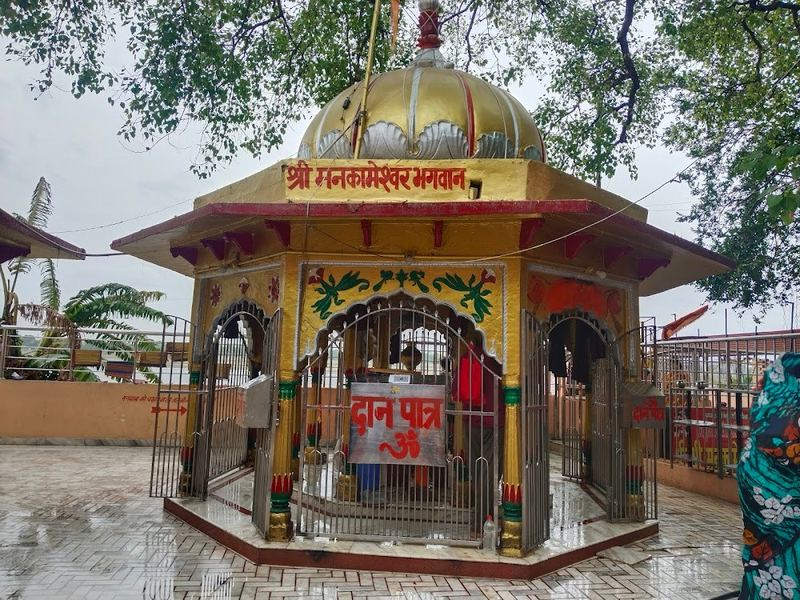
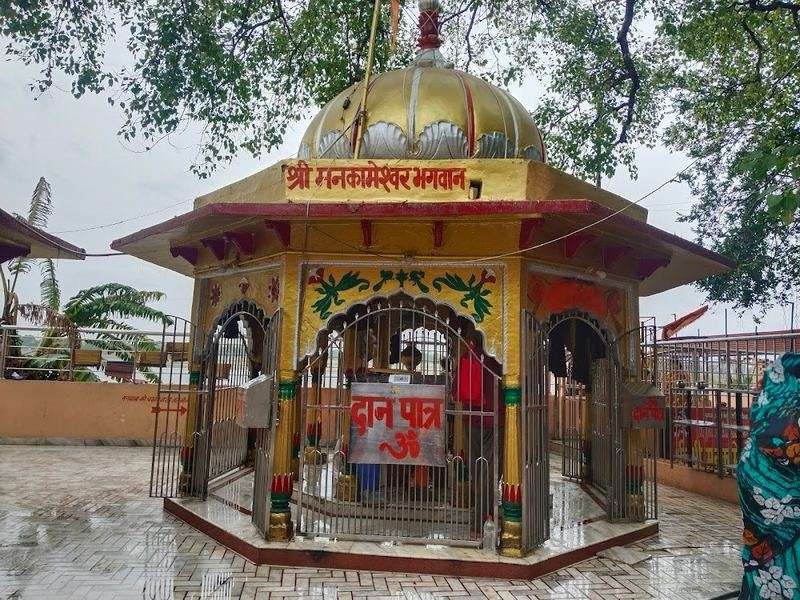
Room guide: Minto Park and your photo for All Saints Cathedral (#6)
* Room guide: use owner photo for All Saints Cathedral

Claude-Session: https://claude.ai/code/session_01G9R1cmkjzAAWyWxPUiKgxj

* Room guide: add Minto Park (Madan Mohan Malaviya Park) with owner photo

Claude-Session: https://claude.ai/code/session_01G9R1cmkjzAAWyWxPUiKgxj

* Room guide: add Shivalaya Park and Triveni Pushp; owner photo for New Yamuna Bridge

Claude-Session: https://claude.ai/code/session_01G9R1cmkjzAAWyWxPUiKgxj

* Room guide: new Food outings group with Loknath Gali (Chowk)

Claude-Session: https://claude.ai/code/session_01G9R1cmkjzAAWyWxPUiKgxj

* Room guide: add Katra and Colonelganj eats and El Chico to Food outings

Claude-Session: https://claude.ai/code/session_01G9R1cmkjzAAWyWxPUiKgxj

* Room guide: add Civil Lines Night Market; final photo optimisation

Claude-Session: https://claude.ai/code/session_01G9R1cmkjzAAWyWxPUiKgxj

---------

diff --git a/room-guide/place-details.js b/room-guide/place-details.js
@@ -141,6 +141,26 @@ window.PLACE_TEXT = {
     dur: '30 minutes',
     dd: '30 मिनट',
   },
+  shivalaya: {
+    ab: 'Shivalaya Park is a temple park in Arail, on the Naini side of the Yamuna. It has large models of the 12 Jyotirlingas of Lord Shiva, placed as they are across India, with paved walkways between them. It was built for the 2025 Maha Kumbh. It is a good way to see many famous Shiva temples in one visit.',
+    ah: 'शिवालय पार्क यमुना के नैनी की ओर अरैल में बना मंदिरों का पार्क है। यहाँ भगवान शिव के 12 ज्योतिर्लिंगों के बड़े प्रतिरूप हैं, जो देश में उनकी जगह के हिसाब से लगाए गए हैं, और बीच में पक्के रास्ते हैं। यह 2025 महाकुंभ के लिए बना। एक ही बार में कई प्रसिद्ध शिव मंदिर देखने का अच्छा तरीका है।',
+    hl: [
+      'Models of the 12 Jyotirlingas',
+      'Paved walkways through the park',
+      'Peaceful, good for families and elders',
+      'Close to Triveni Pushp and Arail Ghat',
+    ],
+    hh: [
+      '12 ज्योतिर्लिंगों के प्रतिरूप',
+      'पार्क में पक्के रास्ते',
+      'शांत, परिवार और बुज़ुर्गों के लिए अच्छा',
+      'त्रिवेणी पुष्प और अरैल घाट के पास',
+    ],
+    bt: 'Morning or late afternoon. Mondays and Sawan or Mahashivratri days are busy. Opening times and tickets can change, so please confirm with Reception.',
+    bh: 'सुबह या देर दोपहर। सोमवार और सावन या महाशिवरात्रि पर भीड़ रहती है। समय और टिकट बदल सकते हैं, इसलिए रिसेप्शन से पूछ लें।',
+    dur: '1 to 2 hours',
+    dd: '1 से 2 घंटे',
+  },
   nagvasuki: {
     ab: 'The Nagvasuki Temple stands on the high bank of the Ganga at Daraganj, an old pilgrim quarter of Prayagraj. It is dedicated to Nag Vasuki and is believed to be among the oldest sacred places of the city.',
     ah: 'नागवासुकी मंदिर प्रयागराज के पुराने तीर्थ क्षेत्र दारागंज में गंगा के ऊँचे तट पर है। यह नाग वासुकी को समर्पित है और शहर के सबसे प्राचीन पवित्र स्थलों में माना जाता है।',
@@ -322,6 +342,26 @@ window.PLACE_TEXT = {
     dur: '45 minutes',
     dd: '45 मिनट',
   },
+  minto: {
+    ab: 'Minto Park, now called Madan Mohan Malaviya Park, is a quiet park on the bank of the Yamuna, close to the Fort and Saraswati Ghat. A tall white stone pillar stands in the middle. In 1858 the proclamation that moved the rule of India from the East India Company to the Crown was read here. Today it is a calm place for a walk and some history.',
+    ah: 'मिंटो पार्क, जिसे अब मदन मोहन मालवीय पार्क कहते हैं, यमुना किनारे का शांत पार्क है, जो किले और सरस्वती घाट के पास है। बीच में ऊँचा सफ़ेद पत्थर का स्तंभ है। 1858 में यहीं वह घोषणा पढ़ी गई थी जिससे भारत का शासन ईस्ट इंडिया कंपनी से ताज के हाथ में गया। आज यह टहलने और इतिहास जानने की शांत जगह है।',
+    hl: [
+      'Tall white pillar in the middle of the park',
+      'Place of the 1858 proclamation',
+      'Green lawns beside the Yamuna',
+      'Close to the Fort and Saraswati Ghat',
+    ],
+    hh: [
+      'पार्क के बीच ऊँचा सफ़ेद स्तंभ',
+      '1858 की घोषणा का स्थान',
+      'यमुना के किनारे हरे लॉन',
+      'किले और सरस्वती घाट के पास',
+    ],
+    bt: 'Early morning or late afternoon, in the cooler months. Combine it with the Fort and Saraswati Ghat.',
+    bh: 'ठंड के मौसम में सुबह जल्दी या देर दोपहर। किले और सरस्वती घाट के साथ घूमें।',
+    dur: '30 to 45 minutes',
+    dd: '30 से 45 मिनट',
+  },
   highcourt: {
     ab: 'The Allahabad High Court is a grand building of red stone, one of the oldest high courts in India. It is best admired from outside, as the building is a working court.',
     ah: 'इलाहाबाद उच्च न्यायालय लाल पत्थर की भव्य इमारत है और भारत के सबसे पुराने उच्च न्यायालयों में से एक है। इसे बाहर से देखना ही ठीक है, क्योंकि यह चालू अदालत है।',
@@ -420,6 +460,88 @@ window.PLACE_TEXT = {
     ],
     bt: 'Afternoon and evening, when the shops are open. Weekends are busier. Opening times can change, so please confirm with Reception.',
     bh: 'दोपहर और शाम, जब दुकानें खुली होती हैं। सप्ताहांत में भीड़ ज़्यादा होती है। समय बदल सकता है, इसलिए रिसेप्शन से पूछ लें।',
+    dur: '1 to 2 hours',
+    dd: '1 से 2 घंटे',
+  },
+  loknath: {
+    ab: 'Loknath Gali is the old food lane in Chowk, the heart of old Prayagraj, and a favourite for traditional snacks and sweets. Shops here include Hari Ram & Sons for mini masala samosas and namkeen, Raja Ram Lassi Wala for traditional lassi, Sulaki & Sons for dahi jalebi and sweets, and Nirala Chaat and Mishthan Bhandar for chaat and sweets. The lane is narrow and busy, so go on foot or by e-rickshaw.',
+    ah: 'लोकनाथ गली पुराने प्रयागराज के दिल चौक की पुरानी खाने की गली है, जो पारंपरिक नाश्ते और मिठाइयों के लिए पसंद की जाती है। यहाँ मिनी मसाला समोसे और नमकीन के लिए हरि राम एंड संस, पारंपरिक लस्सी के लिए राजा राम लस्सी वाला, दही जलेबी और मिठाइयों के लिए सुलाकी एंड संस, और चाट व मिठाइयों के लिए निराला चाट एंड मिष्ठान भंडार जैसी दुकानें हैं। गली तंग और भीड़भाड़ वाली है, इसलिए पैदल या ई-रिक्शा से जाएँ।',
+    hl: [
+      'Loknath Food Market: traditional food street',
+      'Hari Ram & Sons: mini masala samosas and namkeen',
+      'Raja Ram Lassi Wala: traditional lassi',
+      'Sulaki & Sons: dahi jalebi and traditional sweets',
+      'Nirala Chaat and Mishthan Bhandar: chaat and sweets',
+    ],
+    hh: [
+      'लोकनाथ फ़ूड मार्केट: पारंपरिक खाने की गली',
+      'हरि राम एंड संस: मिनी मसाला समोसे और नमकीन',
+      'राजा राम लस्सी वाला: पारंपरिक लस्सी',
+      'सुलाकी एंड संस: दही जलेबी और पारंपरिक मिठाइयाँ',
+      'निराला चाट एंड मिष्ठान भंडार: चाट और मिठाइयाँ',
+    ],
+    bt: 'Late morning to evening, when the shops are open and fresh. Avoid festival rush hours. Shop timings change, so please confirm with Reception. Sudha Vatika does not serve food.',
+    bh: 'देर सुबह से शाम तक, जब दुकानें खुली और ताज़ा माल होता है। त्योहार की भीड़ के समय से बचें। दुकानों का समय बदल सकता है, इसलिए रिसेप्शन से पूछ लें। सुधा वाटिका में भोजन नहीं मिलता।',
+    dur: '1 to 2 hours',
+    dd: '1 से 2 घंटे',
+  },
+  nightmarket: {
+    ab: 'The Civil Lines Night Market is an evening street-food market, where many small stalls open after dark and families, students and friends sit at open tables under the trees. It is lively and informal, and a good way to try a mix of snacks and street food in one place. Stalls and timings change often, so please check with Reception.',
+    ah: 'सिविल लाइंस नाइट मार्केट शाम का स्ट्रीट-फ़ूड बाज़ार है, जहाँ अँधेरा होने के बाद कई छोटे स्टॉल खुलते हैं और परिवार, छात्र और दोस्त पेड़ों के नीचे खुली मेज़ों पर बैठते हैं। माहौल जीवंत और बेफ़िक्र है, और एक ही जगह कई तरह का नाश्ता और स्ट्रीट फ़ूड चखने का अच्छा तरीका है। स्टॉल और समय अक्सर बदलते हैं, इसलिए रिसेप्शन से पूछ लें।',
+    hl: [
+      'Many street-food stalls in one place',
+      'Open tables under the trees',
+      'Lively at night, popular with families and students',
+      'In Civil Lines, close to the main square',
+    ],
+    hh: [
+      'एक ही जगह कई स्ट्रीट-फ़ूड स्टॉल',
+      'पेड़ों के नीचे खुली मेज़ें',
+      'रात को रौनक, परिवारों और छात्रों में लोकप्रिय',
+      'सिविल लाइंस में, मुख्य चौराहे के पास',
+    ],
+    bt: 'Evening and night, after about 7 PM. Weekends are crowded. Keep your valuables safe, and choose clean stalls with fresh food.',
+    bh: 'शाम और रात, लगभग 7 बजे के बाद। सप्ताहांत में भीड़ रहती है। अपना सामान संभालकर रखें और साफ़-सुथरे स्टॉल व ताज़ा खाना चुनें।',
+    dur: '1 to 2 hours',
+    dd: '1 से 2 घंटे',
+  },
+  colonelganj: {
+    ab: 'The streets around Katra and Colonelganj are an old-city food area, best known for kachori and sabzi, and for chaat. Netram Moolchand & Sons is known for desi ghee kachori-sabzi. Pandit Ji Ki Chaat serves tamatar chaat, aloo tikki, dahi vada and papdi chaat. Chandralok Kachori serves kachori and sabzi. It makes a good breakfast or snack stop.',
+    ah: 'कटरा और कर्नलगंज के आसपास की गलियाँ पुराने शहर का खाने का इलाका है, जो कचौड़ी-सब्ज़ी और चाट के लिए सबसे मशहूर है। नेतराम मूलचंद एंड संस देसी घी की कचौड़ी-सब्ज़ी के लिए जाना जाता है। पंडित जी की चाट में टमाटर चाट, आलू टिक्की, दही वड़ा और पापड़ी चाट मिलती है। चंद्रलोक कचौड़ी में कचौड़ी और सब्ज़ी मिलती है। नाश्ते या हल्का खाने के लिए अच्छी जगह है।',
+    hl: [
+      'Netram Moolchand & Sons: desi ghee kachori-sabzi',
+      'Pandit Ji Ki Chaat: tamatar chaat, aloo tikki, dahi vada, papdi chaat',
+      'Chandralok Kachori: kachori and sabzi',
+      'Close to the Katra book and shopping market',
+    ],
+    hh: [
+      'नेतराम मूलचंद एंड संस: देसी घी की कचौड़ी-सब्ज़ी',
+      'पंडित जी की चाट: टमाटर चाट, आलू टिक्की, दही वड़ा, पापड़ी चाट',
+      'चंद्रलोक कचौड़ी: कचौड़ी और सब्ज़ी',
+      'कटरा के किताब और खरीदारी बाज़ार के पास',
+    ],
+    bt: 'Morning for kachori-sabzi, and late afternoon or evening for chaat. Shop timings change, so please confirm with Reception. Sudha Vatika does not serve food.',
+    bh: 'कचौड़ी-सब्ज़ी के लिए सुबह, और चाट के लिए देर दोपहर या शाम। दुकानों का समय बदल सकता है, इसलिए रिसेप्शन से पूछ लें। सुधा वाटिका में भोजन नहीं मिलता।',
+    dur: '1 hour',
+    dd: '1 घंटा',
+  },
+  elchico: {
+    ab: 'El Chico is a sit-down restaurant on Mahatma Gandhi Marg in Civil Lines, with a colourful, stylish dining hall and comfortable seating for families and groups. It is a good choice for a relaxed dinner out. Please confirm the opening time and book a table through Reception. Sudha Vatika does not serve food.',
+    ah: 'एल चिको सिविल लाइंस में महात्मा गांधी मार्ग पर बैठकर खाने का रेस्टोरेंट है, जिसका हॉल रंगीन और सजा-धजा है और परिवारों व समूहों के लिए आरामदायक बैठने की जगह है। आराम से बाहर रात का खाना खाने के लिए अच्छी पसंद है। खुलने का समय पूछ लें और टेबल रिसेप्शन से बुक करा लें। सुधा वाटिका में भोजन नहीं मिलता।',
+    hl: [
+      'Stylish dining hall',
+      'Comfortable seating for families and groups',
+      'On Mahatma Gandhi Marg, Civil Lines',
+      'Good for a relaxed dinner out',
+    ],
+    hh: [
+      'सजा-धजा डाइनिंग हॉल',
+      'परिवारों और समूहों के लिए आरामदायक बैठने की जगह',
+      'सिविल लाइंस, महात्मा गांधी मार्ग',
+      'आराम से बाहर रात का खाना खाने के लिए अच्छा',
+    ],
+    bt: 'Lunch or dinner. Weekend evenings are busy, so ask Reception to check opening time and book a table.',
+    bh: 'दोपहर या रात का खाना। सप्ताहांत की शाम को भीड़ रहती है, इसलिए रिसेप्शन से खुलने का समय पूछ लें और टेबल बुक करा लें।',
     dur: '1 to 2 hours',
     dd: '1 से 2 घंटे',
   },
@@ -707,6 +829,26 @@ window.PLACE_TEXT = {
     ],
     bt: 'Late morning to evening, when shops are open.',
     bh: 'दुकानें खुली होने पर, देर सुबह से शाम तक।',
+    dur: '1 hour',
+    dd: '1 घंटा',
+  },
+  trivenipushp: {
+    ab: 'Triveni Pushp is a large riverside park on Arail Road, on the Naini side of the Yamuna. It has wide lawns and a tall tower in the middle, and from the area you can look over the water towards the Sangam. It is a calm place for a walk and for photos, and it is near Shivalaya Park.',
+    ah: 'त्रिवेणी पुष्प यमुना के नैनी की ओर अरैल रोड पर नदी किनारे का बड़ा पार्क है। यहाँ चौड़े लॉन और बीच में ऊँचा टावर है, और यहाँ से पानी के पार संगम की ओर नज़र जाती है। टहलने और फ़ोटो के लिए शांत जगह है, और शिवालय पार्क के पास है।',
+    hl: [
+      'Tall tower and wide lawns',
+      'View towards the Sangam',
+      'Good for photos and a quiet walk',
+      'Near Shivalaya Park and Arail Ghat',
+    ],
+    hh: [
+      'ऊँचा टावर और चौड़े लॉन',
+      'संगम की ओर का नज़ारा',
+      'फ़ोटो और शांत सैर के लिए अच्छा',
+      'शिवालय पार्क और अरैल घाट के पास',
+    ],
+    bt: 'Early morning or late afternoon for the light and the cooler air. Opening times can change, so please confirm with Reception.',
+    bh: 'रोशनी और ठंडी हवा के लिए सुबह जल्दी या देर दोपहर। समय बदल सकता है, इसलिए रिसेप्शन से पूछ लें।',
     dur: '1 hour',
     dd: '1 घंटा',
   },

diff --git a/room-guide/places.js b/room-guide/places.js
@@ -76,6 +76,16 @@ window.PLACES = [
     dh: 'पुराने शहर में शक्तिपीठ मंदिर, चौक बाज़ार के पास।',
   },
   {
+    id: 'shivalaya',
+    c: 'temple',
+    lat: 25.42096,
+    lon: 81.86608,
+    en: 'Shivalaya Park (12 Jyotirlingas)',
+    hi: 'शिवालय पार्क (12 ज्योतिर्लिंग)',
+    de: 'A temple park in Arail with large models of the 12 Jyotirlingas, built for the 2025 Maha Kumbh.',
+    dh: 'अरैल में मंदिरों का पार्क, जहाँ 12 ज्योतिर्लिंगों के बड़े प्रतिरूप हैं। 2025 महाकुंभ के लिए बना।',
+  },
+  {
     id: 'nagvasuki',
     c: 'temple',
     lat: 25.45672,
@@ -165,6 +175,16 @@ window.PLACES = [
     hi: 'चंद्रशेखर आज़ाद पार्क',
     de: 'The big green park of the city where the freedom fighter Azad gave his life. Nice for an evening walk.',
     dh: 'शहर का बड़ा हरा पार्क, जहाँ शहीद आज़ाद ने बलिदान दिया। शाम की सैर के लिए अच्छा।',
+  },
+  {
+    id: 'minto',
+    c: 'heritage',
+    lat: 25.43287,
+    lon: 81.86209,
+    en: 'Minto Park (Madan Mohan Malaviya Park)',
+    hi: 'मिंटो पार्क (मदन मोहन मालवीय पार्क)',
+    de: 'A riverside park on the Yamuna with a tall white pillar, linked to the 1858 proclamation that put India under the Crown.',
+    dh: 'यमुना किनारे का पार्क, जहाँ ऊँचा सफ़ेद स्तंभ है। 1858 की उस घोषणा से जुड़ा है जिसने भारत को ताज के अधीन किया।',
   },
   {
     id: 'highcourt',
@@ -258,6 +278,16 @@ window.PLACES = [
     dh: 'प्रयागराज जंक्शन के पास लोकप्रिय मोहल्ला, दुकानों, दफ़्तरों और बड़े खेल मैदान के साथ।',
   },
   {
+    id: 'trivenipushp',
+    c: 'area',
+    lat: 25.42044,
+    lon: 81.87781,
+    en: 'Triveni Pushp',
+    hi: 'त्रिवेणी पुष्प',
+    de: 'A riverside park with a tall tower and lawns on the Arail side, looking over the Sangam.',
+    dh: 'अरैल की ओर नदी किनारे का पार्क, जहाँ ऊँचा टावर और लॉन हैं। यहाँ से संगम का नज़ारा दिखता है।',
+  },
+  {
     id: 'triveniroad',
     c: 'area',
     lat: 25.43569,
@@ -286,6 +316,46 @@ window.PLACES = [
     hi: 'डब्ल्यूपी एरिना मॉल',
     de: 'A shopping mall on Lal Bahadur Shastri Marg in Civil Lines, with brand stores and a good place to cool off.',
     dh: 'सिविल लाइंस में लाल बहादुर शास्त्री मार्ग पर शॉपिंग मॉल, जहाँ ब्रांड की दुकानें हैं और आराम से घूमा जा सकता है।',
+  },
+  {
+    id: 'loknath',
+    c: 'food',
+    lat: 25.43844,
+    lon: 81.83402,
+    en: 'Loknath Gali (Chowk food lane)',
+    hi: 'लोकनाथ गली (चौक की खाने की गली)',
+    de: 'The old food lane in Chowk, known for samosas, lassi, jalebi, chaat and sweets.',
+    dh: 'चौक की पुरानी खाने की गली, समोसे, लस्सी, जलेबी, चाट और मिठाइयों के लिए मशहूर।',
+  },
+  {
+    id: 'nightmarket',
+    c: 'food',
+    lat: 25.44966,
+    lon: 81.83502,
+    en: 'Civil Lines Night Market',
+    hi: 'सिविल लाइंस नाइट मार्केट',
+    de: 'An evening street-food market in Civil Lines, with many stalls under the trees.',
+    dh: 'सिविल लाइंस का शाम का स्ट्रीट-फ़ूड बाज़ार, पेड़ों के नीचे कई ठेले और स्टॉल।',
+  },
+  {
+    id: 'colonelganj',
+    c: 'food',
+    lat: 25.45529,
+    lon: 81.86242,
+    en: 'Katra and Colonelganj (kachori and chaat)',
+    hi: 'कटरा और कर्नलगंज (कचौड़ी और चाट)',
+    de: 'Old-city eating streets famous for kachori-sabzi and chaat, near the Katra market.',
+    dh: 'पुराने शहर की खाने की गलियाँ, कचौड़ी-सब्ज़ी और चाट के लिए मशहूर, कटरा बाज़ार के पास।',
+  },
+  {
+    id: 'elchico',
+    c: 'food',
+    lat: 25.44966,
+    lon: 81.83502,
+    en: 'El Chico (restaurant, Civil Lines)',
+    hi: 'एल चिको (रेस्टोरेंट, सिविल लाइंस)',
+    de: 'A stylish sit-down restaurant on Mahatma Gandhi Marg in Civil Lines.',
+    dh: 'सिविल लाइंस में महात्मा गांधी मार्ग पर बैठकर खाने का सजा-धजा रेस्टोरेंट।',
   },
   {
     id: 'chowk',
@@ -391,6 +461,7 @@ window.CATEGORIES = [
     hi: 'दर्शनीय और इतिहास',
   },
   { id: 'market', icon: '🛍', color: '#7c3aed', en: 'Markets and squares', hi: 'बाज़ार और चौराहे' },
+  { id: 'food', icon: '🍽', color: '#be185d', en: 'Food outings', hi: 'खाने की जगहें' },
   {
     id: 'station',
     icon: '🚉',

diff --git a/room-guide/images.js b/room-guide/images.js
@@ -39,6 +39,11 @@ window.PLACE_IMG = {
     license: "used with the owner's permission",
     pos: 'center 40%',
   },
+  shivalaya: {
+    file: 'places/shivalaya.jpg',
+    credit: 'supplied by the owner',
+    license: "used with the owner's permission",
+  },
   nagvasuki: {
     file: 'places/nagvasuki.jpg',
     credit: '21GauriGuptaa',
@@ -73,9 +78,8 @@ window.PLACE_IMG = {
   },
   cathedral: {
     file: 'places/cathedral.jpg',
-    credit: 'Ar.anujgupta',
-    license: 'CC BY-SA 4.0',
-    url: 'https://commons.wikimedia.org/wiki/File:All_Saints_Cathedral,_Prayagraj,_Uttar_Pradesh,_India_(2018)142.jpg',
+    credit: 'supplied by the owner',
+    license: "used with the owner's permission",
   },
   museum: {
     file: 'places/museum.jpg',
@@ -87,6 +91,11 @@ window.PLACE_IMG = {
     credit: 'Vyomtripathi',
     license: 'CC BY-SA 4.0',
     url: 'https://commons.wikimedia.org/wiki/File:Victoria_Memorial_Allahabad.jpg',
+  },
+  minto: {
+    file: 'places/minto.jpg',
+    credit: 'supplied by the owner',
+    license: "used with the owner's permission",
   },
   highcourt: {
     file: 'places/highcourt.jpg',
@@ -101,9 +110,8 @@ window.PLACE_IMG = {
   },
   bridge: {
     file: 'places/bridge.jpg',
-    credit: 'Bhartrihari Pandiya',
-    license: 'CC BY-SA 4.0',
-    url: 'https://commons.wikimedia.org/wiki/File:Naini_Bridge_@_Allahabad.jpg',
+    credit: 'supplied by the owner',
+    license: "used with the owner's permission",
   },
   library: {
     file: 'places/library.jpg',
@@ -121,6 +129,11 @@ window.PLACE_IMG = {
     license: "used with the owner's permission",
     pos: 'center 30%',
   },
+  trivenipushp: {
+    file: 'places/trivenipushp.jpg',
+    credit: 'supplied by the owner',
+    license: "used with the owner's permission",
+  },
   civillines: {
     file: 'places/civillines.jpg',
     credit: 'supplied by the owner',
@@ -129,6 +142,26 @@ window.PLACE_IMG = {
   wparena: {
     file: 'places/wparena.jpg',
     credit: 'supplied by the owner (design visualisation)',
+    license: "used with the owner's permission",
+  },
+  loknath: {
+    file: 'places/loknath.jpg',
+    credit: 'supplied by the owner',
+    license: "used with the owner's permission",
+  },
+  nightmarket: {
+    file: 'places/nightmarket.jpg',
+    credit: 'supplied by the owner',
+    license: "used with the owner's permission",
+  },
+  colonelganj: {
+    file: 'places/colonelganj.jpg',
+    credit: 'supplied by the owner',
+    license: "used with the owner's permission",
+  },
+  elchico: {
+    file: 'places/elchico.jpg',
+    credit: 'supplied by the owner',
     license: "used with the owner's permission",
   },
   chowk: {

diff --git a/room-guide/places/CREDITS.md b/room-guide/places/CREDITS.md
@@ -10,9 +10,9 @@ Each page link has the original file, author and licence text.
 - azadpark: Vyomtripathi, CC BY-SA 4.0, https://commons.wikimedia.org/wiki/File:Victoria_Memorial_Allahabad.jpg
 - planetarium: Dananuj, CC BY-SA 3.0, https://commons.wikimedia.org/wiki/File:Jawahar_Planetarium,_Allahabad_Jan_2014_AJ.jpg
 - khusro: photo supplied by the owner (original photographer not known), used with the owner's permission. Replaces the earlier Wikimedia Commons photo.
-- cathedral: Ar.anujgupta, CC BY-SA 4.0, https://commons.wikimedia.org/wiki/File:All_Saints_Cathedral,_Prayagraj,_Uttar_Pradesh,_India_(2018)142.jpg
+- cathedral: photo supplied by the owner (original photographer not known), used with the owner's permission. Replaces the earlier Wikimedia Commons photo.
 - nagvasuki: 21GauriGuptaa, CC0, https://commons.wikimedia.org/wiki/File:NaagvasukiTemple.jpg
-- bridge: Bhartrihari Pandiya, CC BY-SA 4.0, https://commons.wikimedia.org/wiki/File:Naini_Bridge_@_Allahabad.jpg
+- bridge: photo supplied by the owner (original photographer not known), used with the owner's permission. Replaces the earlier Wikimedia Commons photo.
 - airport: Harshv7777, CC BY 4.0, https://commons.wikimedia.org/wiki/File:Prayagraj_Airport.jpg
 - chheoki: Gamerzer, CC BY-SA 4.0, https://commons.wikimedia.org/wiki/File:Prayagraj_Chheoki_junction.jpg
 - junction: photo supplied by the owner (original photographer not known), used with the owner's permission. Replaces the earlier Wikimedia Commons photo.
@@ -36,3 +36,10 @@ Each page link has the original file, author and licence text.
 - civilbus: photo supplied by the owner (original photographer not known), used with the owner's permission.
 - wparena: design visualisation of the building supplied by the owner, used with the owner's permission. Replace with a real photo when one is available.
 - museum: photo supplied by the owner (original photographer not known), used with the owner's permission.
+- minto: photo supplied by the owner (original photographer not known), used with the owner's permission.
+- shivalaya: photo supplied by the owner (original photographer not known), used with the owner's permission.
+- trivenipushp: photo supplied by the owner (original photographer not known), used with the owner's permission.
+- loknath: photo supplied by the owner (original photographer not known), used with the owner's permission.
+- colonelganj: photo supplied by the owner (original photographer not known), used with the owner's permission.
+- elchico: photo supplied by the owner (original photographer not known), used with the owner's permission.
+- nightmarket: photo supplied by the owner (original photographer not known), used with the owner's permission. It carries a text caption; replace with a clean photo when available.

diff --git a/README.md b/README.md
@@ -91,7 +91,7 @@ A QR code in each room opens **https://kushagra486.github.io/Sudha-Vatika-/room/
 - **QR cards**: [one card for every room](https://kushagra486.github.io/Sudha-Vatika-/room/cards/Sudha-Vatika-Room-Card.pdf) (A5, English and Hindi). `node room-guide/tools/make_room_cards.mjs 101 102 103` makes a card per room with the room number filled in.
 - **Changing things**: phone numbers and links are in `room-guide/config.js`; places in `room-guide/places.js` and `room-guide/place-details.js`; restaurants, WiFi and check-out time are edited in the dashboard, no code needed.
 
-### Photos still needed (4 of 37 places)
+### Photos still needed (4 of 44 places)
 
 The room guide shows an icon tile for these places until a photo is added. Photos must be ones we may use: your own pictures, or Wikimedia Commons files with a free licence (the credit shows under the photo).
 
